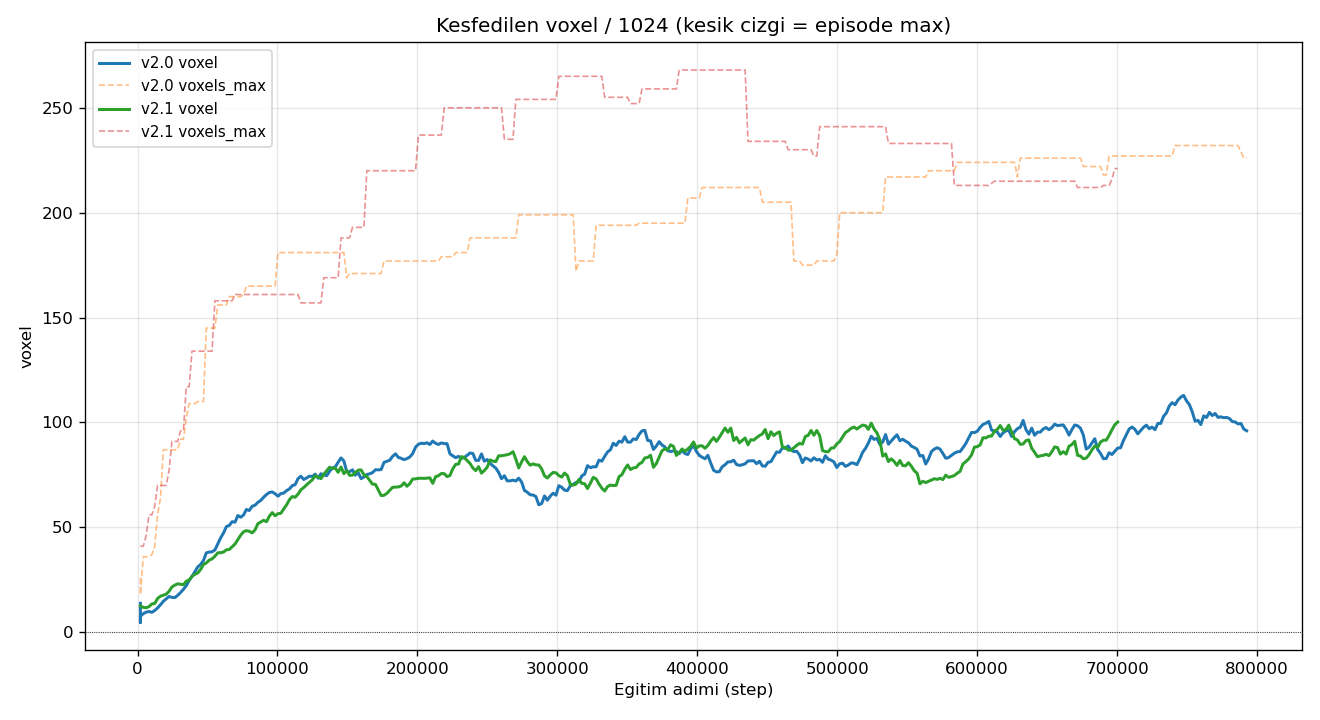
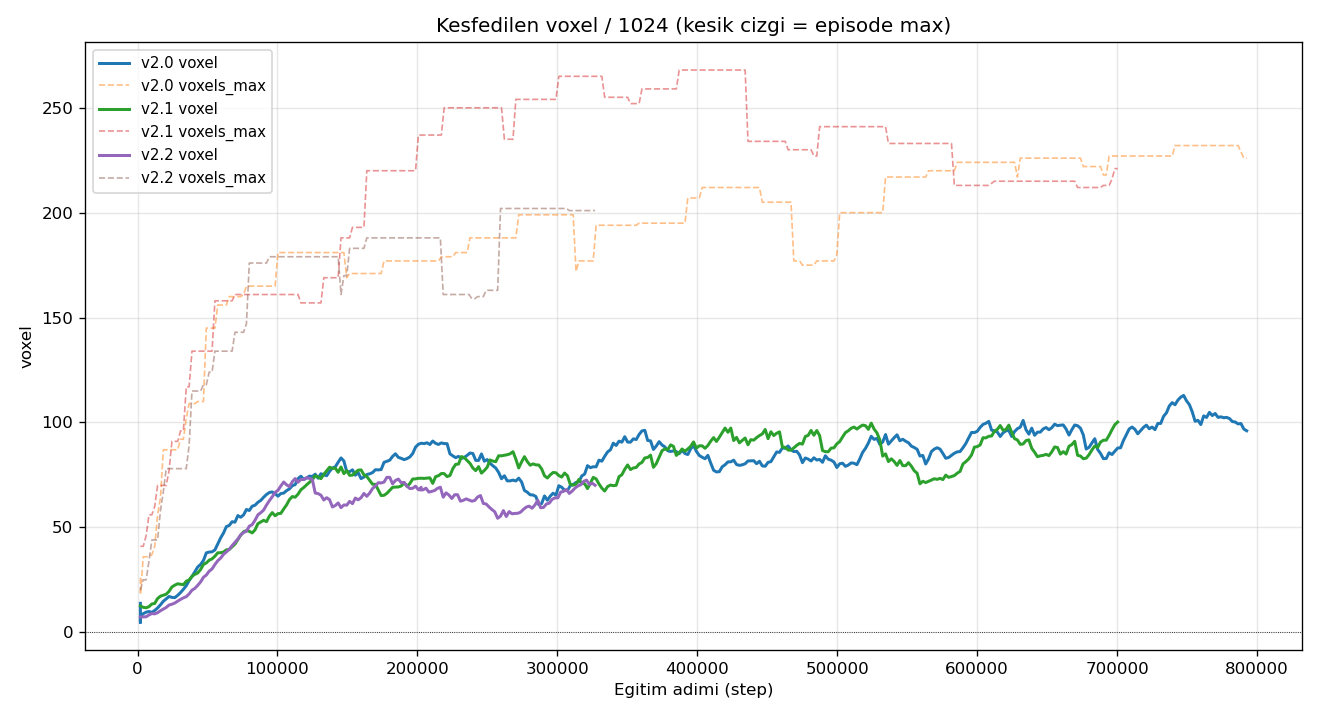
auto(operator): v2.2 healthy @327k (reward 83.7, voxels 201); commit valid resume_from recovery + report refresh

diff --git a/docs/REPORT.md b/docs/REPORT.md
@@ -8,6 +8,7 @@ Otomatik uretildi (`scripts/report.py`). Operator agent gunceller.
 |---|---|---|---|---|---|
 | v2.0 | 792,576 | +102.8 | +121.6 | 232/1024 | 6/6 |
 | v2.1 | 700,416 | +144.2 | +144.2 | 268/1024 | 6/6 |
+| v2.2 | 326,976 | +83.7 | +87.7 | 202/1024 | 6/6 |
 
 ## Versiyon / Mudahale Gunlugu
 
@@ -18,6 +19,7 @@ Otomatik uretildi (`scripts/report.py`). Operator agent gunceller.
 | 2026-05-31 12:08 | v2.1 | extend | v2.1 120k da reward +92.6 (peak, hala yukseliyor), ep_len orani 0.25->0.33 (carpisma dususte). Iyilesme pozitif -> hedef 500k->700k uzatildi (Berker onayi). 700k da: carpisma darbogazi surerse veya oda-ici tarama gibi somut gelisme varsa v2.2; yoksa devam. |
 | 2026-05-31 16:40 | v2.1 | eval_result | v2.1 100-ep eval (700k): carpisma %79 (v2.0 %70 -> KOTULESTI), voxels_mean 69 (v2.0 80), birlesik kapsama 332/1024 %32 (v2.0 %36), voxels_max 195, rooms_mean 3.44. HIPOTEZ CURUDU: directional-only ceza her-yon caution kaldirdi -> yanlardan/hareketli-engelden daha cok carpisma. v2.0 reward daha iyi. (NOT: eval_v2_1 figur basligi kozmetik bug ile v2.0 yaziyor, veri v2.1.) |
 | 2026-05-31 16:40 | v2.2 | version_bump | v2.1 dersine gore TEK-tema: v2.0 her-yon cezasi (scan_min<1.0m, -0.5) GERI getirildi + v2.1 ileri-ark cezasi (fwd<1.5m,-0.6) KORUNDU = birlesik caution. FRESH 500k, episode 1500, runs/ppo_v2_2. Hedef: v2.0 %70 carpisma / %36 kapsamasini gecmek. |
+| 2026-05-31 18:00 | v2.2 | extend | v2.2 hedef 500k->700k (Berker onayi). 500k bitince operator final.zip ten resume. 700k eval sonrasi mantikliysa v2.3 (gozleme lidar gecmisi = hareketli engel hizi). |
 
 ## Figurler
 
